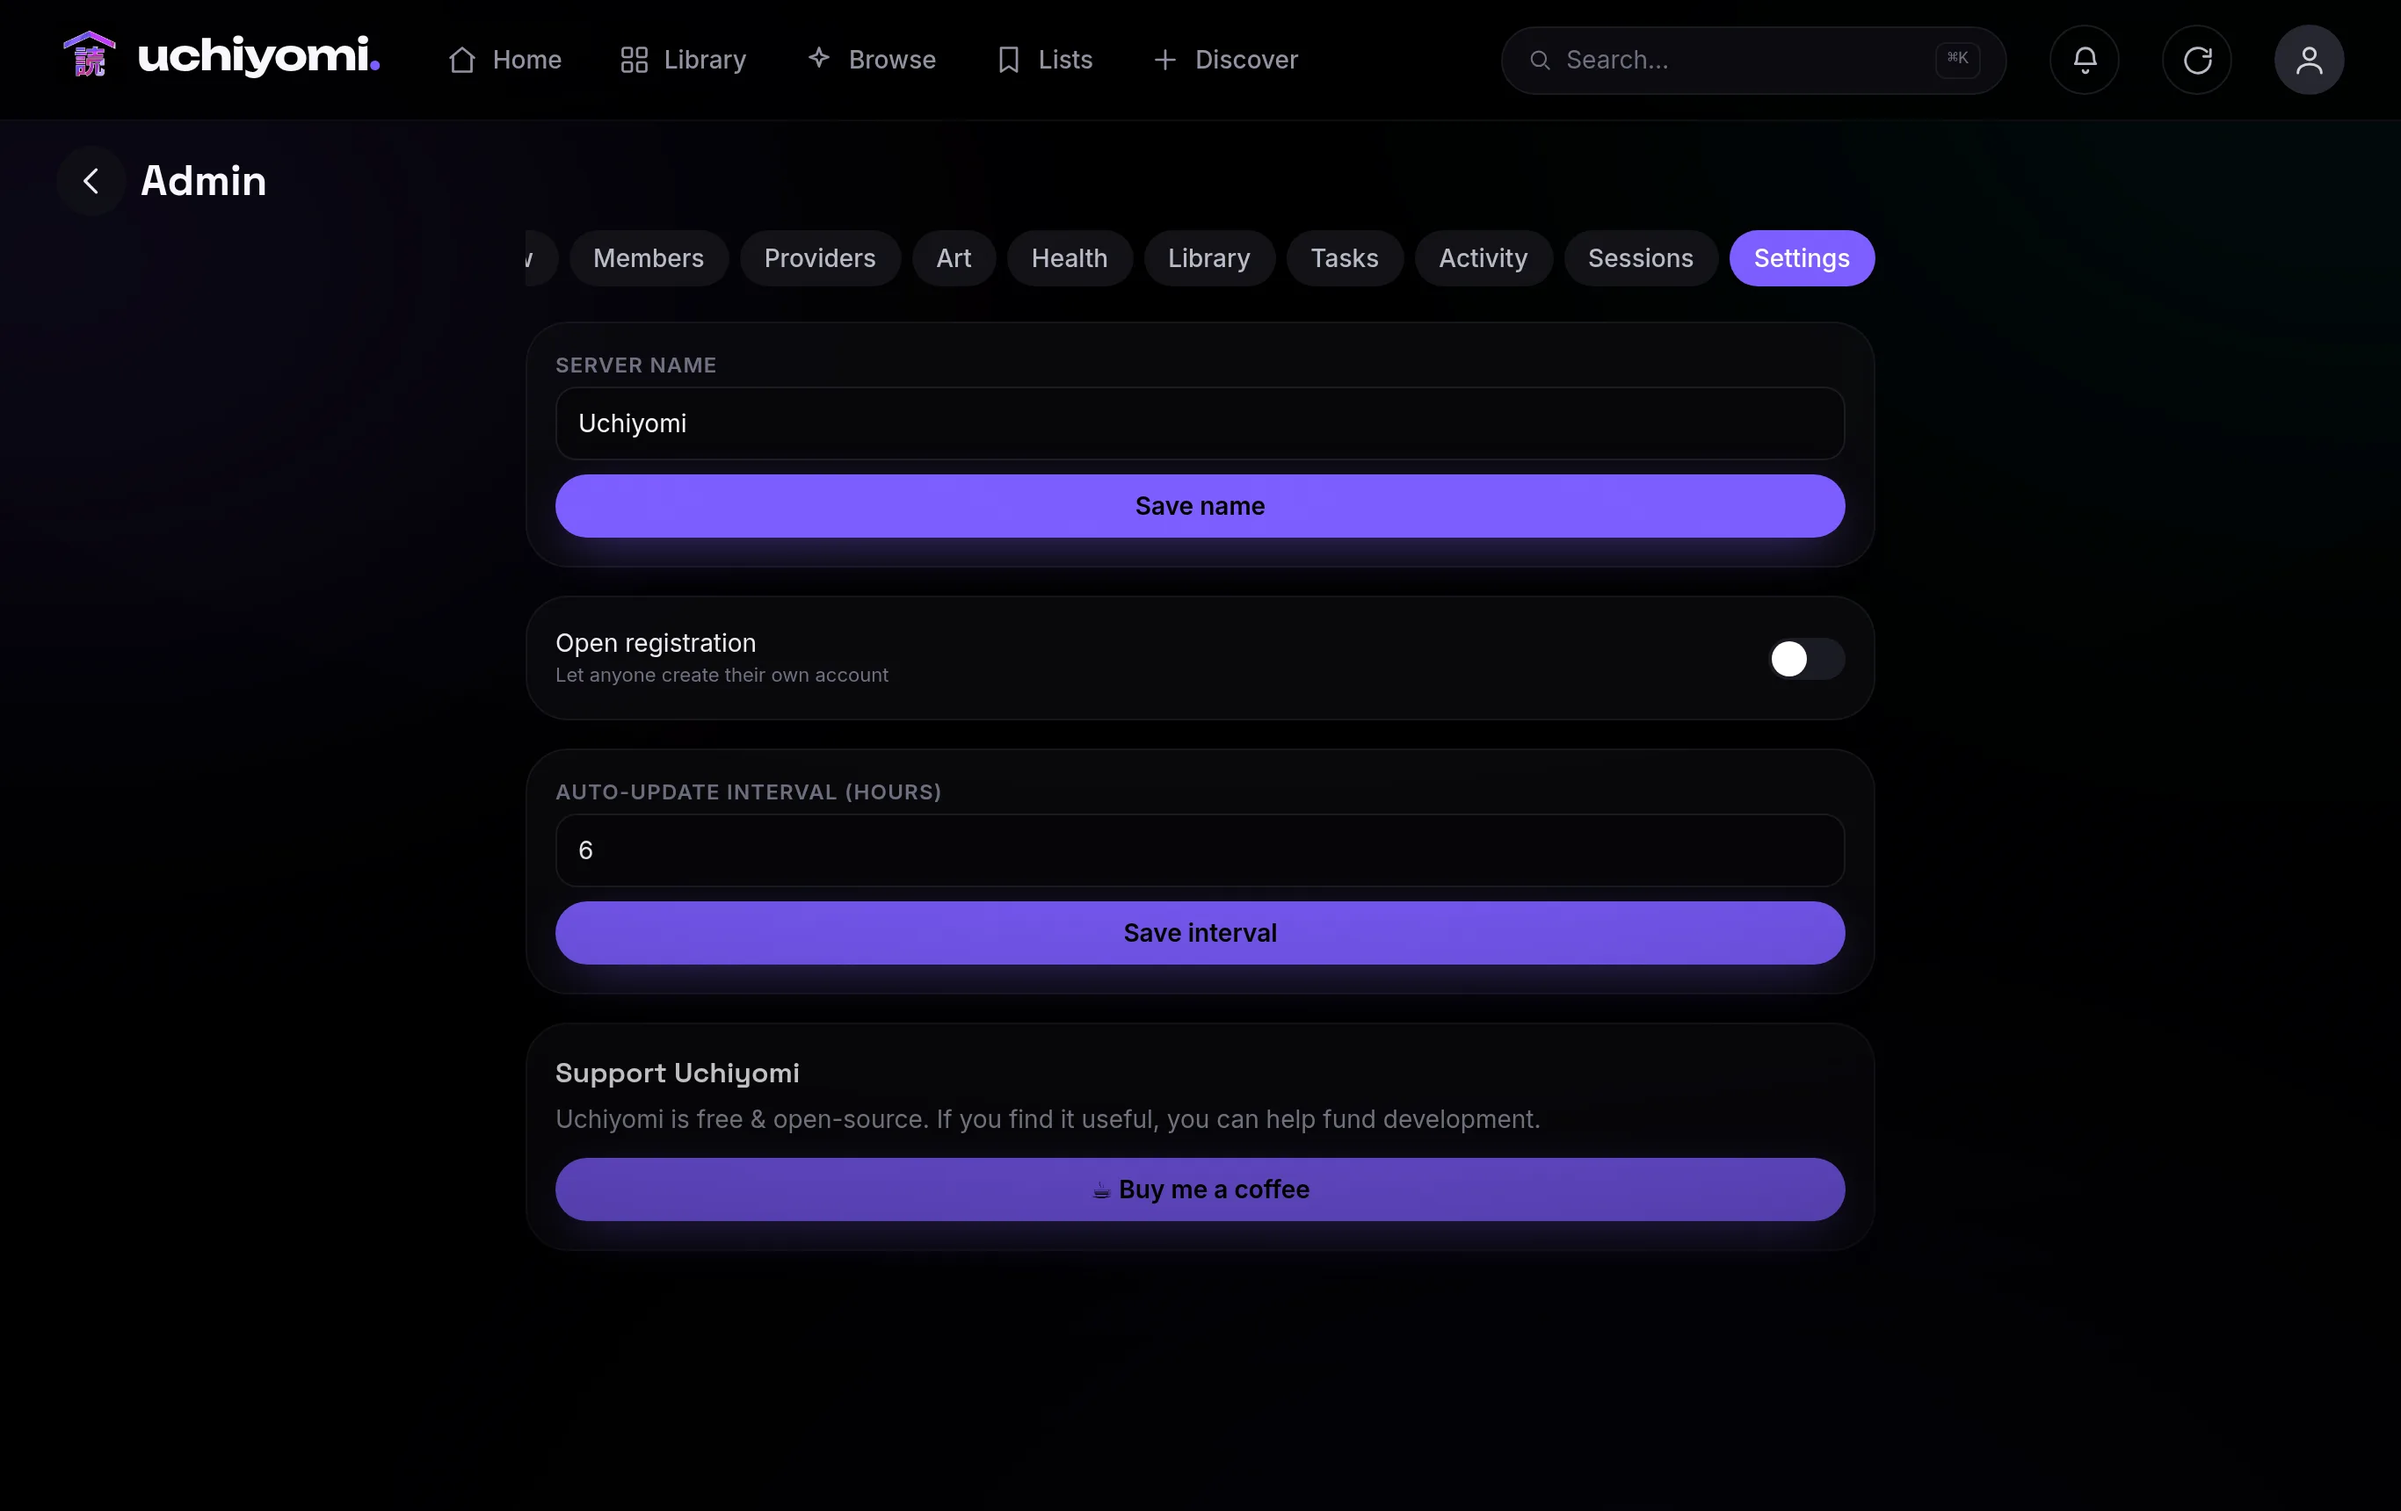
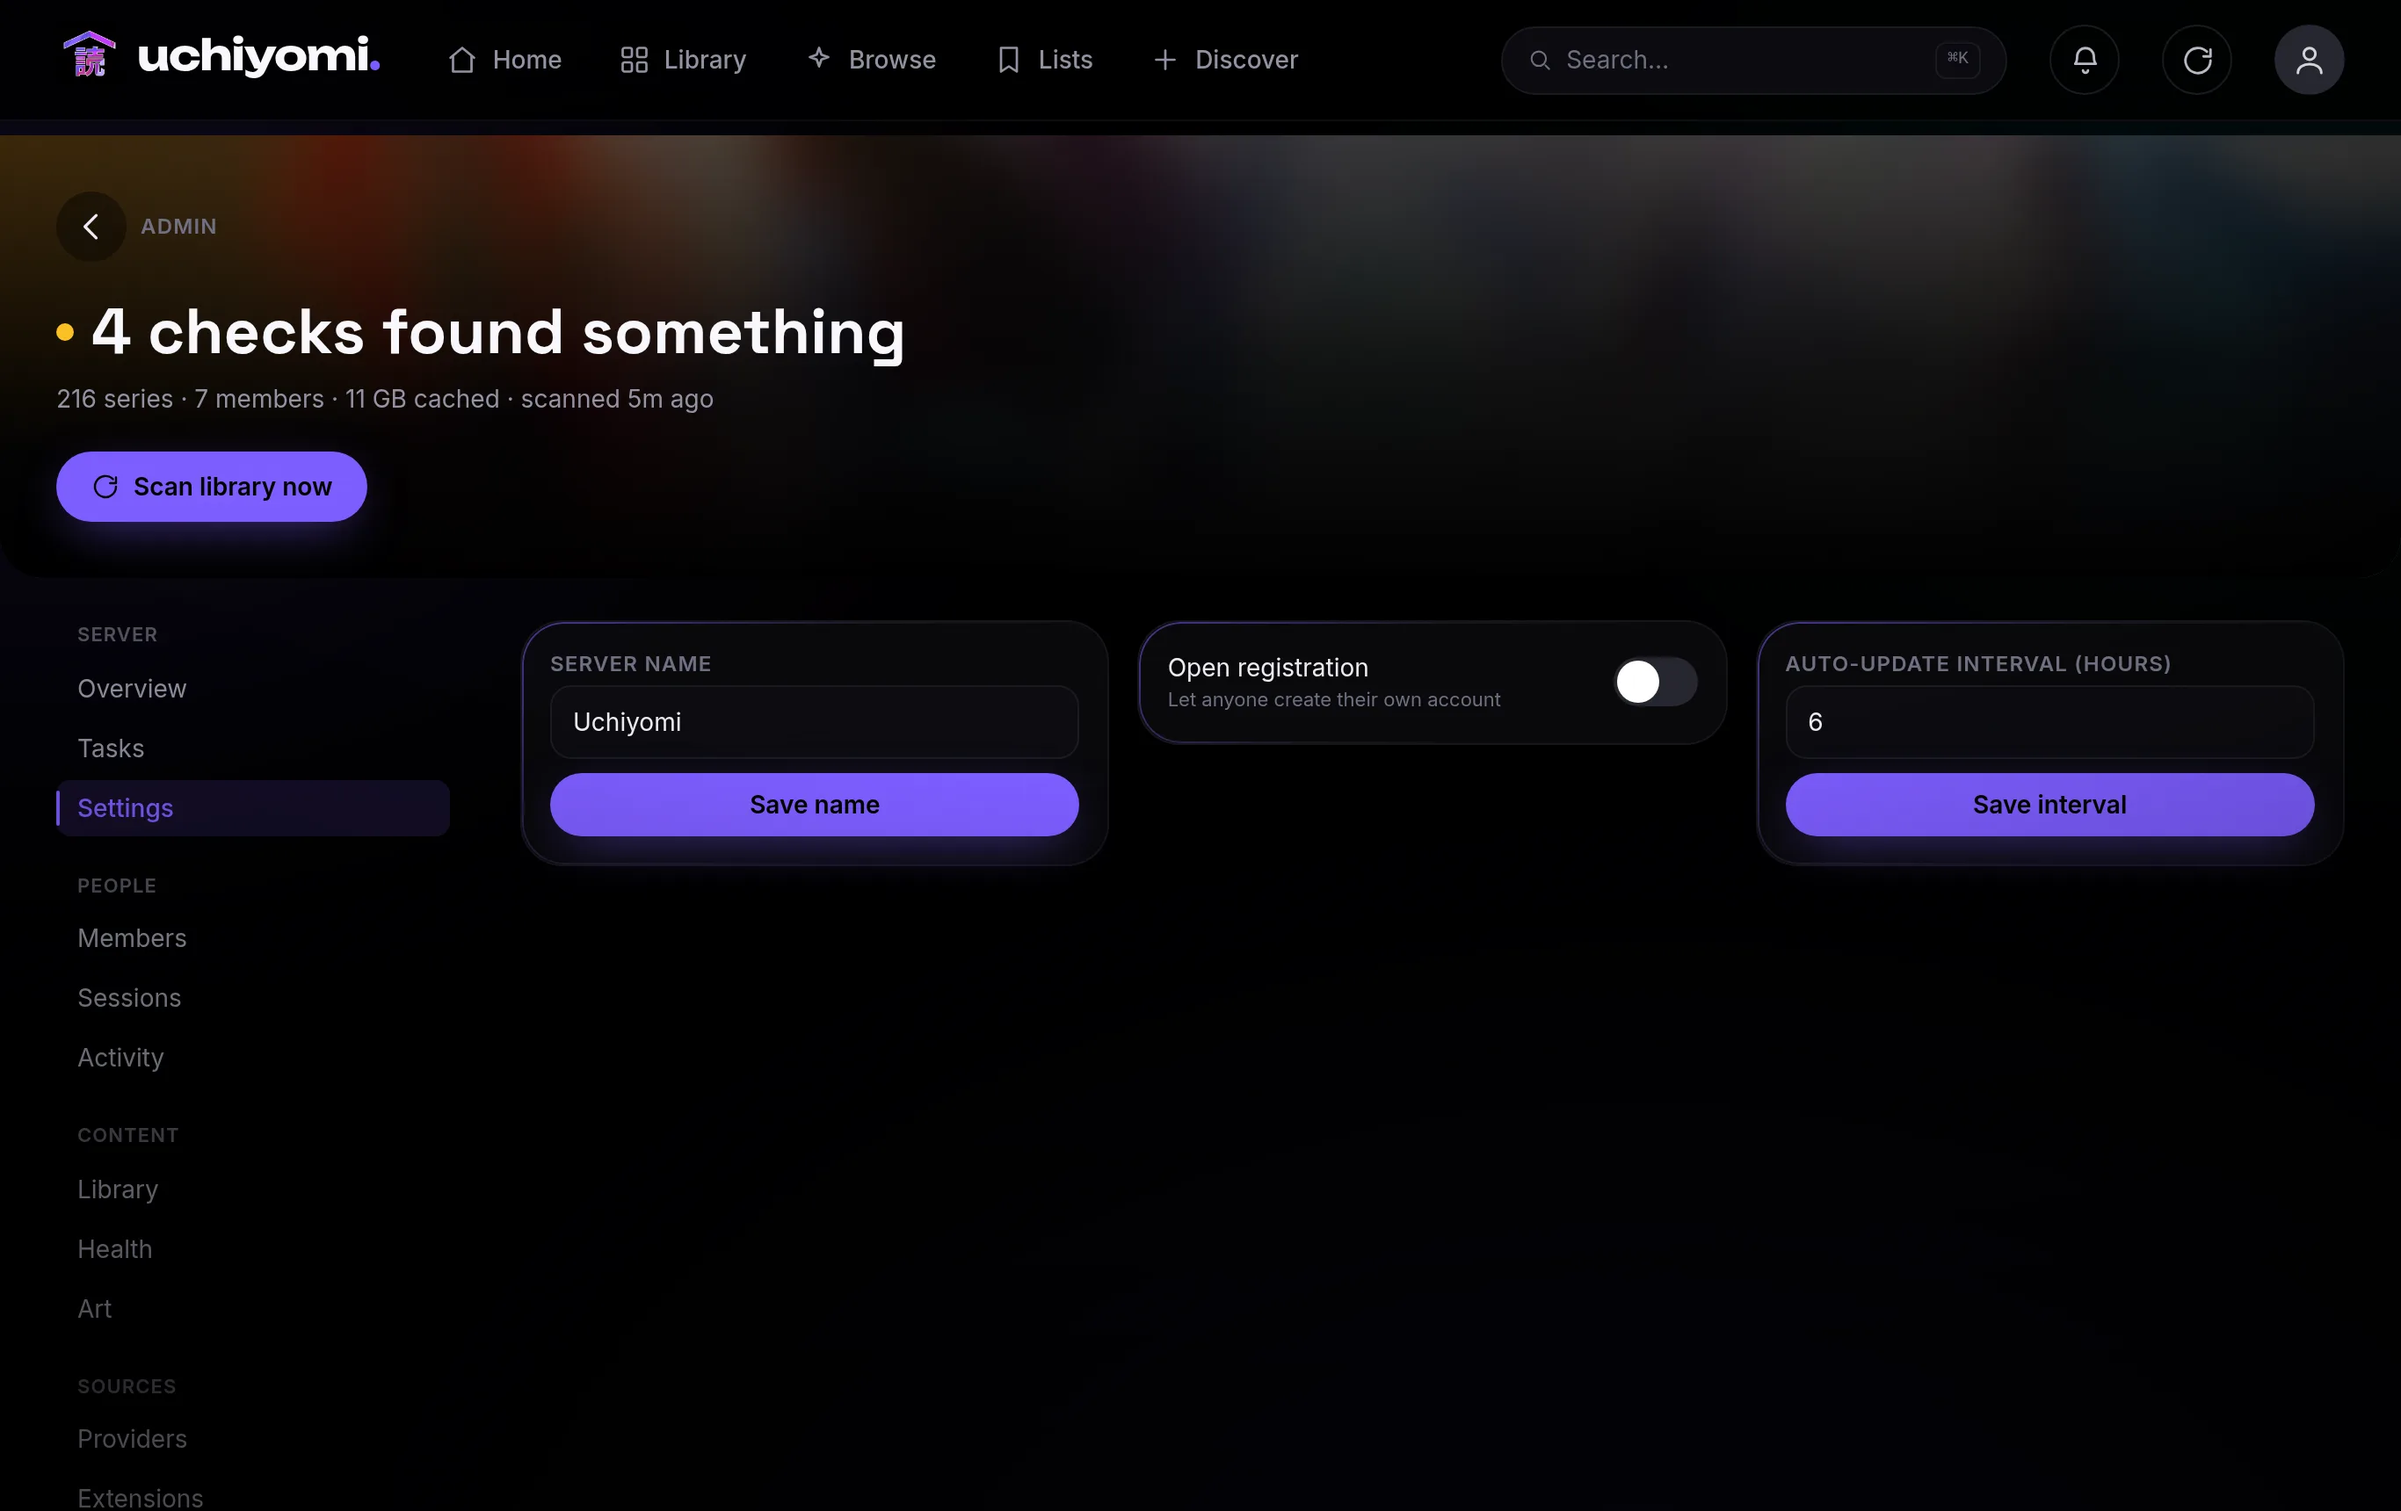
Release v0.9.0, and make the README describe the app that exists
Twelve changelog sections since v0.8.1, so this is a minor release rather than a
patch. Both package.json files move to 0.9.0 and the Unreleased section becomes
v0.9.0; the headings that were already there are the release notes.

The README had drifted in checkable ways. It still called Discover "one search
across every source at once" when the page now leads with what your sources just
published and search is a field in the corner, and the screenshot beside it was
captioned for the search it no longer leads with. The comparison table had no row
for the 18+ library filter, the per-member download permission or PDF and image
EPUB. "Recently shipped" predated nine languages, bookmarks, PDF/EPUB and
everything from the last two days.

Every screenshot is regenerated. The set was captured before the home, library,
browse, discover, profile and admin reworks, which is exactly the staleness
docs/SCREENSHOTS.md warns about in its own opening paragraph.

The rig itself had the same bug as the README, one level down: its Discover step
typed "solo leveling" and photographed the results, so every screenshot in the
docs AND on the marketing site illustrated the one thing that page had stopped
leading with. It now waits for the wall and shoots that. Waits for the tiles
rather than sleeping, because sources land independently as each one answers.

Verified before tagging: 465 backend tests (0 fail, 1 skip), 24 web tests, the
[…]

diff --git a/README.md b/README.md
@@ -66,10 +66,12 @@ into a single image.** Point it at your library, add sources by URL, and it does
   run it as the owner of your library (`PUID`), it can also rename folders and delete chapter files.
 - **Command palette:** press **Ctrl+K** anywhere — instant series search, quick actions, recent items.
 - **Collections:** hand-curated reading lists with accent colors, reorderable, surfaced on Home.
-- **Discover:** one search across **every source at once** (one card per title; pick which provider to add
-  from), a **newest-releases rail per source**, and a global trending-manhwa rail.
+- **Discover:** a wall of **what your sources just published**, grouped by language and led by full-bleed key
+  art for what the world is reading. Each source gets **eight seconds** and is cached, so one slow site cannot
+  hold up the page, and the ones your library actually came from are asked first. Search is still there, across
+  **every source at once** (one card per title; pick which provider to add from).
 
-  <img src="docs/shots/discover.webp" alt="Searching every source at once" width="820">
+  <img src="docs/shots/discover.webp" alt="The Discover page: newest releases from your own sources" width="820">
 
 - **Multi-user:** username + password accounts, per-user reading progress / favorites / history timeline,
   avatars, streaks, and a "household" leaderboard — with accurate completion tracking, mark-as-read
@@ -161,11 +163,13 @@ Suwayomi) fetches chapters but is Android-only or wraps them in a basic web UI. 
 | Runs in one container (+ a database) | ✅ | ✅ | ✅ *(an app)* | ✅ |
 | Interface in 9 languages | ✅ | ✅ | ✅ | limited |
 | Age ratings + per-member limit | ✅ | ✅ | ❌ | ❌ |
+| Hide an 18+ library until asked for | ✅ | ❌ | ❌ | ❌ |
+| Per-member permission to add series | ✅ | ❌ | ❌ | ❌ |
 | Syncs to AniList / MAL / Kitsu | ✅ | Kavita+, paid | ✅ | ✅ |
 | Reads text ebooks (reflowable EPUB) | ❌ *(on purpose)* | Kavita ✅ | ❌ | ❌ |
 | Kobo device sync | ❌ | Komga ✅ | ❌ | ❌ |
 
-<sub>Compiled 2026-08-23 from each project's own docs. These projects move fast and I do not run all of them
+<sub>Compiled 2026-08-24 from each project's own docs. These projects move fast and I do not run all of them
 daily — if a row is wrong or out of date, [open an issue](https://github.com/AngeloSha/uchiyomi/issues) and I
 will fix it.</sub>
 
@@ -387,10 +391,13 @@ Actively developed. On deck:
 
 - 🧭 **Per-source genre & popular browsing:** rounding out the newest-releases rails.
 
-Recently shipped: 📚 multiple libraries with per-member access, 🔍 library filters and bulk actions,
-✏ editable series and chapter metadata that survives a rescan, 📁 any folder layout, 🗂 series delete / restore / merge, 🔎 content fingerprinting so renamed
-folders are recognised, 🔗 AniList progress sync, 🔔 push notifications, 📡 OPDS, browser-based first-run setup, and
-cross-source search.
+Recently shipped: 🔞 an 18+ library kept off every browsing surface until you ask for it, 🧒 age ratings with a
+per-member limit, 🚫 a per-member permission to add series at all, 🧭 Discover rebuilt around what your sources
+just published, 🌍 nine languages with right-to-left, 🔖 bookmarks, 📄 PDF and image EPUB, 📚 multiple libraries
+with per-member access, 🔍 library filters and bulk actions, ✏ editable series and chapter metadata that
+survives a rescan, 📁 any folder layout, 🗂 series delete / restore / merge, 🔎 content fingerprinting so renamed
+folders are recognised, 🔗 progress sync to AniList, MyAnimeList and Kitsu, 🔔 push notifications, 📡 OPDS with
+expiring links, browser-based first-run setup, and cross-source search.
 
 ## Support
 

diff --git a/CHANGELOG.md b/CHANGELOG.md
@@ -2,6 +2,8 @@
 
 ## Unreleased
 
+## v0.9.0 — 2026-08-24
+
 ### Libraries you can actually build
 
 A library is now **a folder, plus any series you file into it by hand**, and there is a way to pick that
